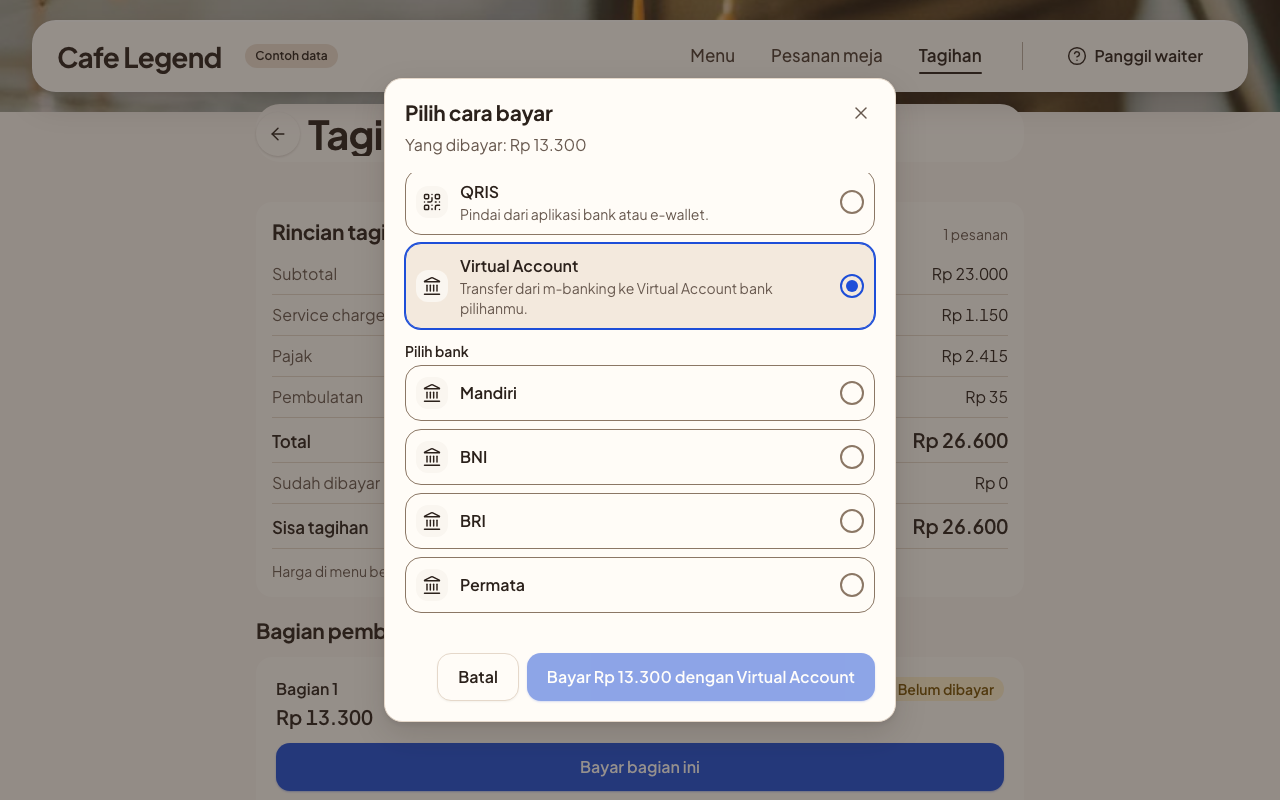
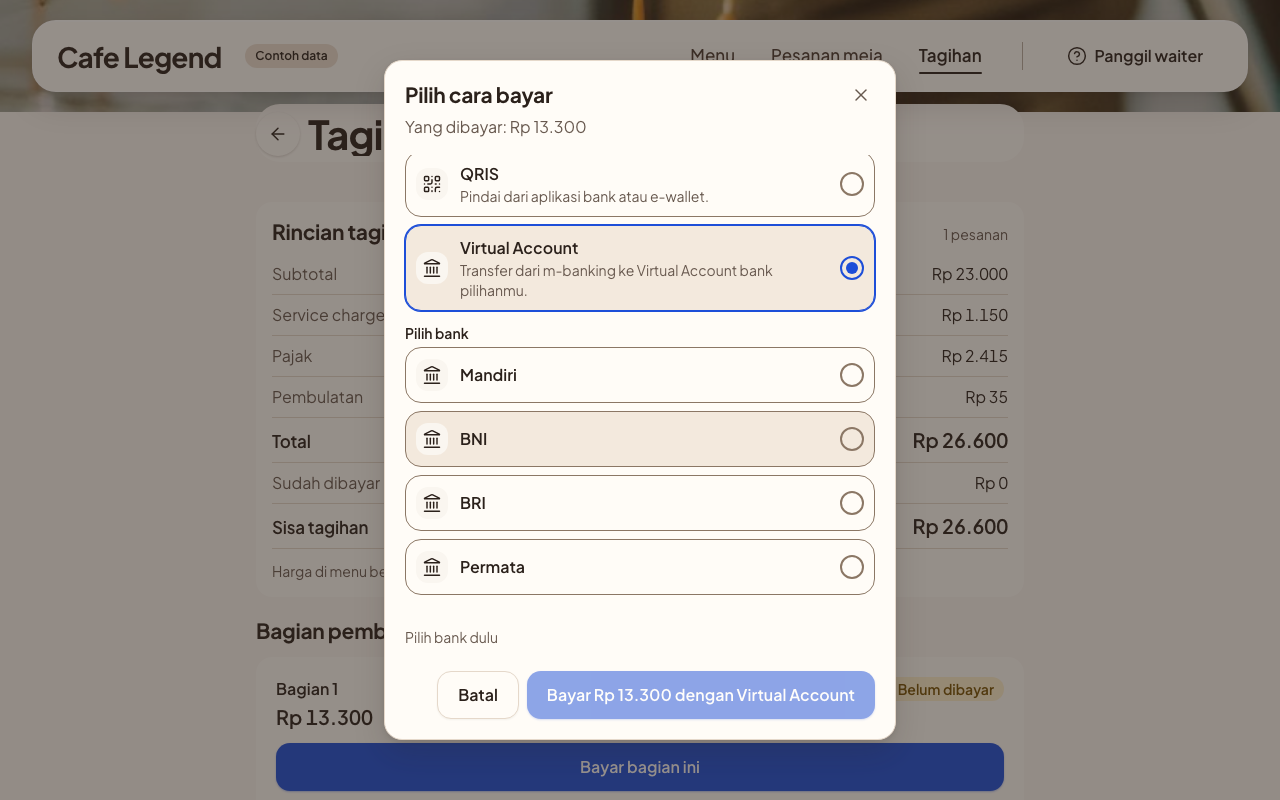
fix(web): pay dialog bank hint and unbroken e-wallet; screenshots for empty, failed and sending states
When a bank is required and none is picked, the dialog now says "Pilih bank dulu"
(catalog key qrOrders.bill.payPickBankFirst) above the disabled pay button.
The QRIS hint uses a non-breaking hyphen so "e-wallet" no longer splits at 390px.
Adds screenshots of the three missing dialog states (no methods, payment failed,
sending) at 1280 and 390, and retakes the earlier dialog shots.

Changed region(s): [[0.2812, 0.0625, 0.7188, 0.75], [0.2812, 0.7812, 0.7188, 0.9375]]

diff --git a/apps/web/test/ws03-pay-dialog.test.ts b/apps/web/test/ws03-pay-dialog.test.ts
@@ -561,6 +561,22 @@ describe("ws03 pay dialog: virtual account bank picker", () => {
     });
   });
 
+  test("VA with several banks and none chosen asks to pick a bank first", () => {
+    render();
+    choose("va");
+    const html = render();
+
+    expect(html).toContain("Pilih bank dulu");
+  });
+
+  test("the bank hint is gone once a bank is chosen, and for QRIS", () => {
+    expect(render()).not.toContain("Pilih bank dulu");
+    choose("va");
+    render();
+    choose(BCA.code);
+    expect(render()).not.toContain("Pilih bank dulu");
+  });
+
   test("a VA is never started without a bank", async () => {
     render();
     choose("va");

diff --git a/packages/shared/src/i18n/messages/qr-orders-bill.ts b/packages/shared/src/i18n/messages/qr-orders-bill.ts
@@ -102,10 +102,11 @@ export const qrOrdersBillMessages = {
   payDialogAmount: "Yang dibayar: {amount}",
   payMethodLabel: "Metode pembayaran",
   methodQris: "QRIS",
-  methodQrisHint: "Pindai dari aplikasi bank atau e-wallet.",
+  methodQrisHint: "Pindai dari aplikasi bank atau e\u2011wallet.",
   methodEwallet: "E-wallet",
   methodEwalletHint: "Lanjut ke aplikasi e-wallet Anda.",
   payContinue: "Lanjut bayar",
+  payPickBankFirst: "Pilih bank dulu",
   payWith: "Bayar {amount} dengan {method}",
   payFailed: "Pembayaran belum bisa dimulai. Periksa koneksi, lalu coba lagi.",
   claimTitle: "Poin untuk Anda",

diff --git a/apps/web/src/features/ws03-qr-order/components/bill/pay-dialog.tsx b/apps/web/src/features/ws03-qr-order/components/bill/pay-dialog.tsx
@@ -328,6 +328,11 @@ export function PayDialog({
             </p>
           )}
         </div>
+        {needsBank && bank === null && (
+          <p className="text-sm text-muted-foreground">
+            {t("qrOrders.bill.payPickBankFirst")}
+          </p>
+        )}
         <DialogFooter>
           <Button
             variant="outline"

diff --git a/docs/screenshots/945/README.md b/docs/screenshots/945/README.md
@@ -4,7 +4,7 @@ Generated by one script against the mock runtime (`VITE_API_MOCK=true`, own dev 
 
 Admin shots (`pembayaran-*`) show the `<main id="main-content">` column only (element screenshot, full width of the column, no sidebar or header). Except `loading`, the viewport is first grown (up to 4000 px) until main shows all its content, and the shot fails if main still scrolls inside. Duitku shots that show the form fail the run if the form, the Simpan button, the status panel or the test panel is not inside the shot. `loading` shots keep the normal viewport height.
 
-Pay dialog shots (`bayar-tamu-dialog-*`): the bill is reloaded by URL (fresh query cache), the scenario is applied, the toast is dismissed, and only then the dialog opens (opening it starts the payment-options fetch). Each state waits for its own marker (skeleton, `[data-slot=error-state]`, VA reason text, a visible radio, open bank list) and the shot fails, leaving no file, if it does not show up. Dialog shots are the viewport (desktop and mobile), taken with no toast on screen.
+Pay dialog shots (`bayar-tamu-dialog-*`): the bill is reloaded by URL (fresh query cache), the scenario is applied, the toast is dismissed, and only then the dialog opens (opening it starts the payment-options fetch). Each state waits for its own marker (skeleton, `[data-slot=error-state]`, VA reason text, a visible radio, open bank list, the empty-methods text with zero radios, the payFailed text, the pending CTA) and the shot fails, leaving no file, if it does not show up. Dialog shots are the viewport (desktop and mobile), taken with no toast on screen.
 
 File name: `<screen>-<state>-<desktop|mobile>-<light|dark>.png`.
 
@@ -27,14 +27,17 @@ File name: `<screen>-<state>-<desktop|mobile>-<light|dark>.png`.
 | table A01, bill page after "Buat pembagian", button Bayar bagian ini, dialog `pay-dialog.tsx` | empty: `?mock=empty` (dialog: VA bank list empty) | bayar-tamu-dialog-empty-* | 2/2 captured |
 | table A01, bill page after "Buat pembagian", button Bayar bagian ini, dialog `pay-dialog.tsx` | error: `?mock=error`, waits for `[data-slot=error-state]` (dialog: 3 queued `failNext` on payment-options before opening, to outlast the 2 query retries) | bayar-tamu-dialog-error-* | 2/2 captured |
 | table A01, bill page after "Buat pembagian", button Bayar bagian ini, dialog `pay-dialog.tsx` | va-down: cookie `legend-mock-va=down` set before opening: VA row disabled with its reason text | bayar-tamu-dialog-va-down-* | 2/2 captured |
+| table A01, bill page after "Buat pembagian", button Bayar bagian ini, dialog `pay-dialog.tsx` | no-methods: no scenario or cookie gives an empty method list, so before opening the script re-registers the mock handler of `GET /api/table-sessions/:sessionId/payment-options` in page memory (`registerMock(..., { replace: true })` via a dynamic import of `/src/lib/mock/registry.ts`) to answer `{ methods: [] }`; the shot waits for the empty-state title and text and zero radios (no repo file is changed) | bayar-tamu-dialog-no-methods-* | 2/2 captured |
+| table A01, bill page after "Buat pembagian", button Bayar bagian ini, dialog `pay-dialog.tsx` | pay-failed: options normal, QRIS picked, 3 `failNext` (500) queued on `POST /api/table-sessions/:sessionId/payments`, pay CTA clicked; the shot waits for the `payFailed` text with the dialog still open and the CTA no longer busy | bayar-tamu-dialog-pay-failed-* | 2/2 captured |
+| table A01, bill page after "Buat pembagian", button Bayar bagian ini, dialog `pay-dialog.tsx` | sending: options normal, QRIS picked, `setLatencyMs(8000)` set just before the pay CTA click (start call held 8 s); the shot waits for the CTA `aria-busy` and disabled with the dialog still open on the bill page (re-checked right before the shot); the dialog hides its close X while pending (`hideClose`; not asserted by the script) | bayar-tamu-dialog-sending-* | 2/2 captured |
 
 ## States not reachable in the mock
 
 - Duitku credentials with a successful connection test, and the active row ("Aktif" card): not capturable. The mock has no handler for `POST /api/org/integrations/:integrationId/test`, and the shared fixtures hold no Duitku row. The Aktifkan button stays disabled until a test stamps `lastCheckedAt` (`duitkuActivation`), and the mock store lives in the browser, so the script cannot seed a tested row. Only the saved-draft (not yet tested) state is shot. These need a mock handler for the test endpoint (a source change, out of scope here).
 - Duitku `normal` and `empty` look the same: with no Duitku row in the fixtures, both show the empty form, status "Belum diatur".
-- Pay dialog with zero methods (the `methods.length === 0` empty state, "Pembayaran online tidak tersedia"): the mock store always returns the method list. `?mock=empty` only empties the VA bank list, and the `va-down` cookie only disables VA. No mock switch returns an empty method list.
+- Pay dialog `no-methods` is not a built-in mock state: `?mock=empty` only empties the VA bank list and the `va-down` cookie only disables VA. The shot swaps the payment-options mock handler in page memory (see the table), so it shows the real empty-methods branch of `pay-dialog.tsx` but not a state a user can reach by a switch.
 - Pay dialog `empty` (no_channels) and `va-down` (gateway_down) both show a disabled VA row; they differ only in the reason line. The script checks each reason text (`unavailableNoChannels` / `unavailableGatewayDown`). Dialog `loading` lasts 3 s, so the shot is taken about 0.3 s after the skeleton appears. The "masuk keranjang" toast is dismissed before the shot, so the toast itself is not shown.
-- Pay dialog submit failure and redirect hand-off (`qrOrders.bill.payFailed`, https `redirectUrl`): not captured; they need a mutation to fail or a real gateway redirect, and the mock has no switch for them in this script.
+- Pay dialog redirect hand-off (https `redirectUrl`, navigation to the payment screen): not captured; the mock never returns a gateway redirect URL. `sending` is shot before the call returns, `pay-failed` after a queued 500.
 - Credentials form validation errors, save failure and secret-rotation confirmation: not captured.
 - Admin loading state: the `slow` scenario is read in the browser runtime, so a server-rendered first paint may already show data or skeleton depending on timing. The shot is taken 0.7 s after DOM ready.
 - Routing `error` and `empty`: shows whatever the screen renders for an empty or failing routing query; the error wait for routing is best effort (the script does not fail if no `[data-slot=error-state]` appears). Check the file before citing it as proof.
